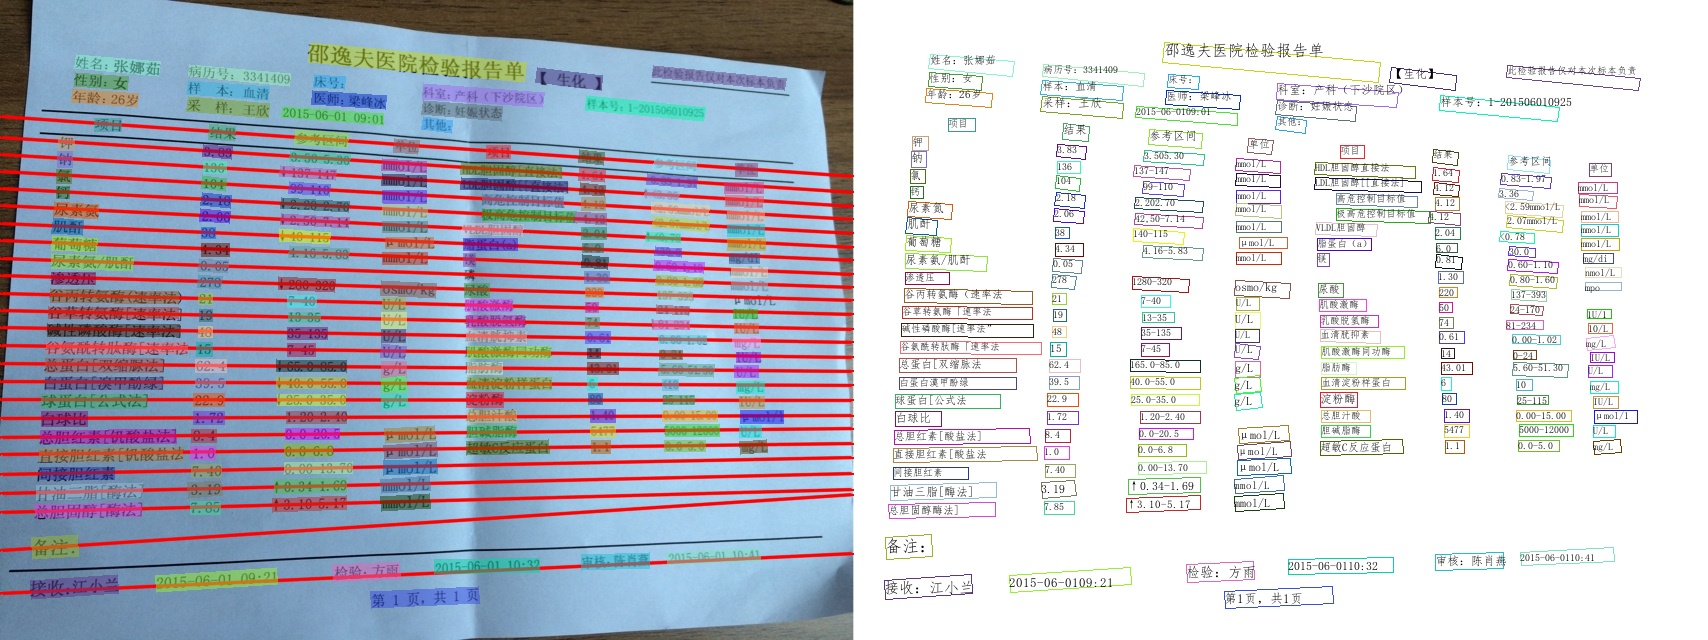
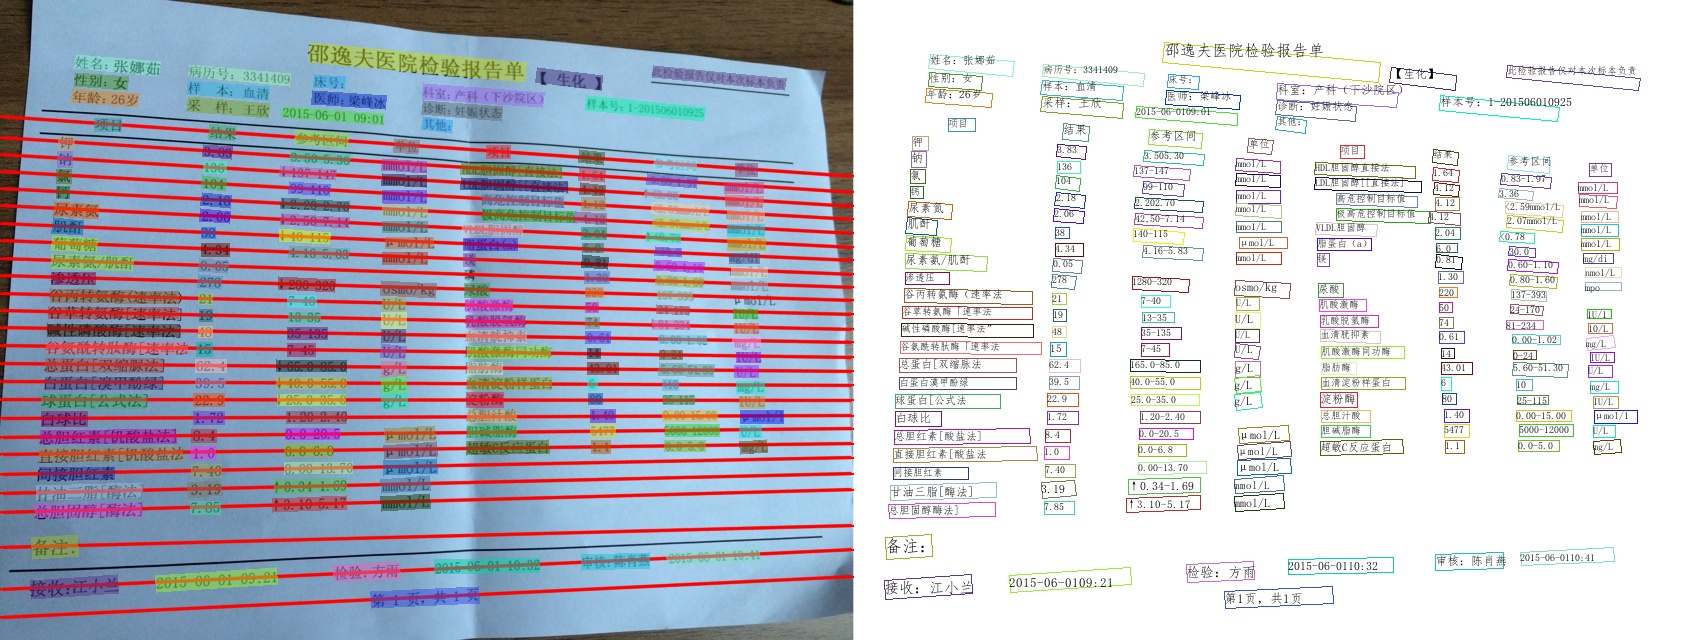
feat: 强化规则适应更多case

Changed region(s): [[0.0, 0.75, 0.4965, 0.9688]]

diff --git a/ppocr/utils/block_process.py b/ppocr/utils/block_process.py
@@ -36,7 +36,7 @@ def calc_block_angle(dt_boxes, rec_res):
         if score >= 0.9 and 2.0 < ratio < 100.0:
             angles.append(angle)
         # print('(%.2f, %.2f)  (%.2f, %.2f)' % (x1, y1, x2, y2))
-        print('angle=%.2f, ratio=%.2f, text=%s, score=%.2f, box=%s' % (angle, ratio, text, score, '...'))
+        print('angle=%.2f, ratio=%.2f, text=%s, score=%.2f, box=%s' % (angle, ratio, text, score, box))
 
     df = pd.DataFrame(angles, columns=['angle'])
     avg = df['angle'].mean()  # 计算均值
@@ -57,6 +57,7 @@ def block_seg(img, dt_boxes):
     return cv2.bitwise_or(img, mask)
 
 
+# 化验单内容提取
 def test_sheet_extract(img, dt_boxes, rec_res):
     text_map = {}
     for i in range(len(dt_boxes)):
@@ -71,7 +72,7 @@ def test_sheet_extract(img, dt_boxes, rec_res):
     化验栏标题：
     - 序号、No
     - 代号、项目代号
-    - 项目名称、项目、检验项目
+    - 项目名称、项目全称、项目、检验项目
     - 英文对照、英文代码、英文、项目简称
     - 结果、项目结果、结果浓度、测定结果、检测结果
     - 标志、异常提示结果、提示、结果提示、结果描述、报警
@@ -82,22 +83,22 @@ def test_sheet_extract(img, dt_boxes, rec_res):
     table_heads = []
     other_boxes = []
 
-    head_words = {'序号', 'No', '代号', '项目代号', '项目名称', '项目', '检验项目', '英文对照', '英文代码',
+    head_words = {'序号', 'No', '代号', '项目代号', '项目名称', '项目全称', '项目', '检验项目', '英文对照', '英文代码',
                   '英文', '项目简称', '结果', '项目结果', '结果浓度', '测定结果', '检测结果', '标志',
-                  '异常提示结果', '提示', '结果提示', '结果描述', '报警', '单位', '参考范围', '参考值',
+                  '异常提示结果', '提示', '结果提示', '结果描述', '报警', '单位', '项目单位', '参考范围', '参考值',
                   '参考区间', '方法学', '检验方法', '实验方法'}
     # 提取化验栏标题并判断单栏或双栏
     diff_word_cnt = 0.0
     total_word_cnt = 0.0
-    for word in head_words:
-        if word in text_map:
+    for word in text_map:
+        if word in head_words:
             diff_word_cnt += 1
             total_word_cnt += len(text_map[word])
             table_heads.extend(text_map[word])
-    for k in text_map:
-        if k not in head_words:
-            other_boxes.extend(text_map[k])
+        else:
+            other_boxes.extend(text_map[word])
     ratio = total_word_cnt / diff_word_cnt
+    # TODO: ratio阈值用于判断双栏或单栏化验单，经验值设定
     if ratio > 1.2:
         print('双栏化验单')
     else:
@@ -106,6 +107,7 @@ def test_sheet_extract(img, dt_boxes, rec_res):
 
     x_cors = []
     y_cors = []
+    # 根据文本框左上角坐标点的横坐标从小到大排序（文本框从左到右排序）
     table_heads = sorted(table_heads, key=lambda head: head['box'][0][0])
     for item in table_heads:
         box = item['box']
@@ -113,7 +115,7 @@ def test_sheet_extract(img, dt_boxes, rec_res):
         y_cors.extend([(box[0][1] + box[3][1]) / 2.0, (box[1][1] + box[2][1]) / 2.0])
         print('text=%s, score=%s, box=%s' % (item['text'], item['score'], box))
     # 直线拟合
-    # TODO 剔除坐标点中的异常值
+    # TODO: 剔除坐标点中的异常值
     a, b = optimize.curve_fit(f_1, x_cors, y_cors)[0]
     # 直线绘制
     x1 = 0
@@ -125,7 +127,27 @@ def test_sheet_extract(img, dt_boxes, rec_res):
     # 计算文本块到直线的距离
     up_boxes = []
     down_boxes = []
+    vertical_boxes = []
     for item in other_boxes:
+        box = item["box"]
+        # 文本块宽高比
+        width = (box[1][0] + box[2][0] - box[0][0] - box[3][0]) / 2.0
+        height = (box[2][1] + box[3][1] - box[0][1] - box[1][1]) / 2.0
+        ratio = math.fabs(width / height)
+        # 文本倾斜角
+        x1, x2 = (box[0][0] + box[3][0]) / 2.0, (box[1][0] + box[2][0]) / 2.0
+        y1, y2 = (box[0][1] + box[3][1]) / 2.0, (box[1][1] + box[2][1]) / 2.0
+        theta = math.atan2(y1 - y2, x2 - x1)
+        # 将弧度制的角度换算到一、四象限
+        if theta > math.pi / 2.0:
+            theta -= math.pi
+        elif theta < -math.pi / 2.0:
+            theta += math.pi
+        angle = math.degrees(theta)
+        if ratio < 1 or angle > 45 or angle < -45:
+            # 剔除竖向文本框
+            vertical_boxes.append(item)
+            continue
         x, y = calc_center_point(item["box"])
         dis = calc_point_to_line(a, -1, b, x, y)
         item["dis"] = dis
@@ -134,7 +156,7 @@ def test_sheet_extract(img, dt_boxes, rec_res):
             down_boxes.append(item)
         else:
             up_boxes.append(item)
-    up_boxes = sorted(up_boxes, key=lambda t: t["dis"], reverse=True)
+    # up_boxes = sorted(up_boxes, key=lambda t: t["dis"], reverse=True)
     down_boxes = sorted(down_boxes, key=lambda t: t["dis"])
     # print("-------------up_boxes--------------")
     # pre_val = 0
@@ -145,24 +167,31 @@ def test_sheet_extract(img, dt_boxes, rec_res):
     #     print("text=%s, score=%.1f, dis=%.1f, delta=%.1f, height=%.1f" % (box["text"], box["score"], box["dis"], delta, height))
     print("-------------down_boxes--------------")
     line_idx = 0
+    pre_k = a  # 前一条直线斜率
+    scale_threshold = 0.6
     while True:
         if len(down_boxes) == 0:
             break
-        line_idx += 1
-        box_num = 0
+        line_idx += 1  # 行号
+        box_num = 0  # 同一行文本框中的编号
+        # height_sum为同一行文本框的y方向高度累加值
         height_sum, delta_sum = 0.0, 0.0
+        # avg_height为判定为同一行的文本框的平均高度；
+        # avg_delta为判定为同一行的文本框中，相邻文本框到直线距离的差值的平均值
         avg_height, avg_delta = 0.0, 0.0
         pre_val = down_boxes[0]["dis"]
         line_boxes = []
         for idx, box in enumerate(down_boxes):
             delta = box["dis"] - pre_val
             scale = 0
+            # 使用当前文本框与前一个文本框到直线距离的差值 占 前面同一行文本框高度平均值的比例 来判断当前文本框是否属于当前行
             if avg_height != 0:
                 scale = delta / avg_height
-            if idx + 1 == len(down_boxes):
+            # 边界case，最后一个box
+            if scale < scale_threshold and idx + 1 == len(down_boxes):
                 line_boxes.append(box)
                 scale = 1
-            if scale >= 0.6:
+            if scale >= scale_threshold:
                 # 对判定为同行的文本框从左到右排序
                 line_boxes = sorted(line_boxes, key=lambda t: t["box"][0][0])
                 # 打印输出
@@ -173,14 +202,20 @@ def test_sheet_extract(img, dt_boxes, rec_res):
                     x_cors.extend([(_box["box"][0][0] + _box["box"][3][0]) / 2.0, (_box["box"][1][0] + _box["box"][2][0]) / 2.0])
                     y_cors.extend([(_box["box"][0][1] + _box["box"][3][1]) / 2.0, (_box["box"][1][1] + _box["box"][2][1]) / 2.0])
                     print("text=%s, dis=%.2f" % (_box["text"], _box["dis"]))
-                # 确定改行的直线方程并绘制直线
-                _a, _b = optimize.curve_fit(f_1, x_cors, y_cors)[0]
-                x1 = 0
-                x2 = img.shape[1]
-                y1 = int(f_1(x1, _a, _b))
-                y2 = int(f_1(x2, _a, _b))
+                # 当一行的文本框不少于2个时，才重新计算该行直线方程；否则沿用上一行的直线斜率
+                if len(x_cors) > 2:
+                    # 确定该行的直线方程并绘制直线
+                    _a, _b = optimize.curve_fit(f_1, x_cors, y_cors)[0]
+                    pre_k = _a
+                else:
+                    # 文本框的坐标重心
+                    tmp_x, tmp_y = np.mean(x_cors), np.mean(y_cors)
+                    _a = pre_k
+                    _b = tmp_y - _a * tmp_x
+                x1, x2 = 0, img.shape[1]
+                y1, y2 = int(f_1(x1, _a, _b)), int(f_1(x2, _a, _b))
                 cv2.line(img, (x1, y1), (x2, y2), (0, 0, 255), 2, cv2.LINE_AA)
-                # 计算剩余文本框到改直线的距离
+                # 计算剩余文本框到该直线的距离
                 down_boxes = down_boxes[len(line_boxes):]
                 if len(down_boxes) == 0:
                     break
@@ -191,6 +226,7 @@ def test_sheet_extract(img, dt_boxes, rec_res):
                 down_boxes = sorted(down_boxes, key=lambda t: t["dis"])
                 break
             else:
+                # 没有换行，继续累加文本框
                 box_num += 1
                 line_boxes.append(box)
                 delta_sum += delta
@@ -229,11 +265,12 @@ def get_middle_point(box):
     return x / 4.0, y / 4.0
 
 
-# 计算点到直线的距离
+# 计算点到直线的距离，直线方程 A*x + B*y + C = 0
 def calc_point_to_line(A, B, C, x, y):
     return math.fabs(A*x + B*y + C) / math.sqrt(A*A + B*B)
 
 
+# 计算矩形文本框的质心坐标
 def calc_center_point(box):
     x = (box[0][0] + box[1][0] + box[2][0] + box[3][0]) / 4.0
     y = (box[0][1] + box[1][1] + box[2][1] + box[3][1]) / 4.0

diff --git a/ppocr/infer/utility.py b/ppocr/infer/utility.py
@@ -36,7 +36,7 @@ def parse_args():
     parser.add_argument("--gpu_mem", type=int, default=500)
 
     # params for text detector
-    parser.add_argument("--image_dir", type=str, default='./doc/imgs/check_report_04.jpg')
+    parser.add_argument("--image_dir", type=str, default='./doc/imgs/check_report_08.jpg')
     parser.add_argument("--det_algorithm", type=str, default='DB')
     parser.add_argument("--det_model_dir", type=str, default='./inference/ch_ppocr_server_v2.0_det_infer/')
     parser.add_argument("--det_limit_side_len", type=float, default=960)

diff --git a/utils/img_process.py b/utils/img_process.py
@@ -84,8 +84,8 @@ def fld_line_detect(image):
 
 
 if __name__ == "__main__":
-	src = cv2.imread(r"../doc/imgs/check_report_06.jpg")
+	src = cv2.imread(r"../doc/imgs/check_report_12.jpg")
 	print("image shape =", src.shape)
 	# hough_p_line_detect(src.copy())
 	auto_canny(src)
-	fld_line_detect(src.copy())
+	# fld_line_detect(src.copy())
